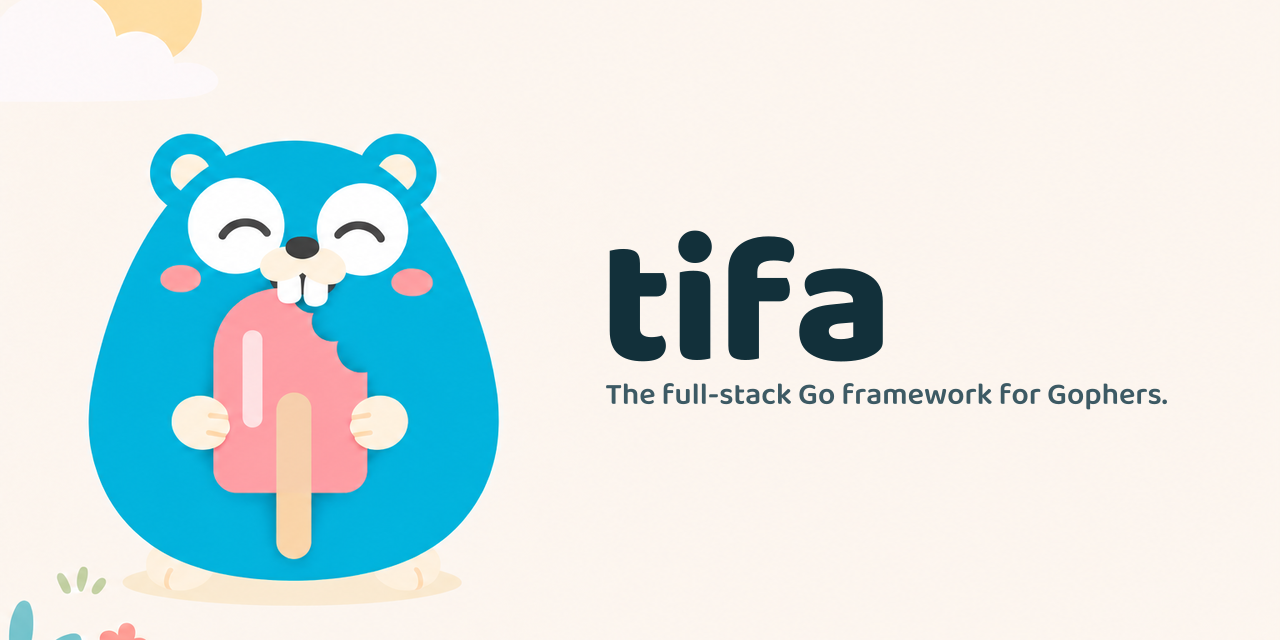
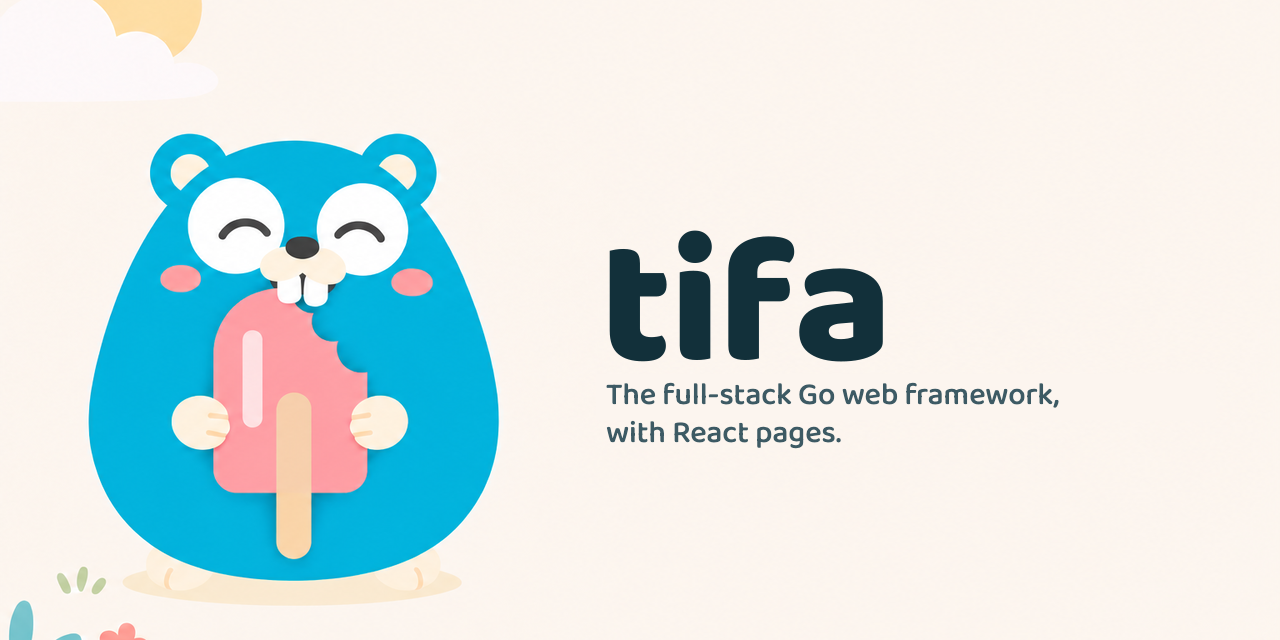
docs(readme): lead with the full-stack Go web framework again

Changed region(s): [[0.6562, 0.5938, 0.9062, 0.6562], [0.4688, 0.6562, 0.6562, 0.7188], [0.4688, 0.5938, 0.5312, 0.625]]

diff --git a/README.md b/README.md
@@ -1,6 +1,6 @@
 <h1 align="center"><img src="assets/brand/tifa-banner.png" alt="Tifa"></h1>
 
-<p align="center"><b>Your whole app on one small server.</b></p>
+<p align="center"><b>The full-stack Go web framework, with React pages.</b></p>
 
 <p align="center">
   <a href="./README.zh-CN.md">简体中文</a> ·

diff --git a/README.zh-CN.md b/README.zh-CN.md
@@ -1,6 +1,6 @@
 <h1 align="center"><img src="assets/brand/tifa-banner.png" alt="Tifa"></h1>
 
-<p align="center"><b>一台小服务器，装下你的整个应用。</b></p>
+<p align="center"><b>Go 全栈 Web 框架，页面用 React 写。</b></p>
 
 <p align="center">
   <a href="./README.md">English</a> ·
